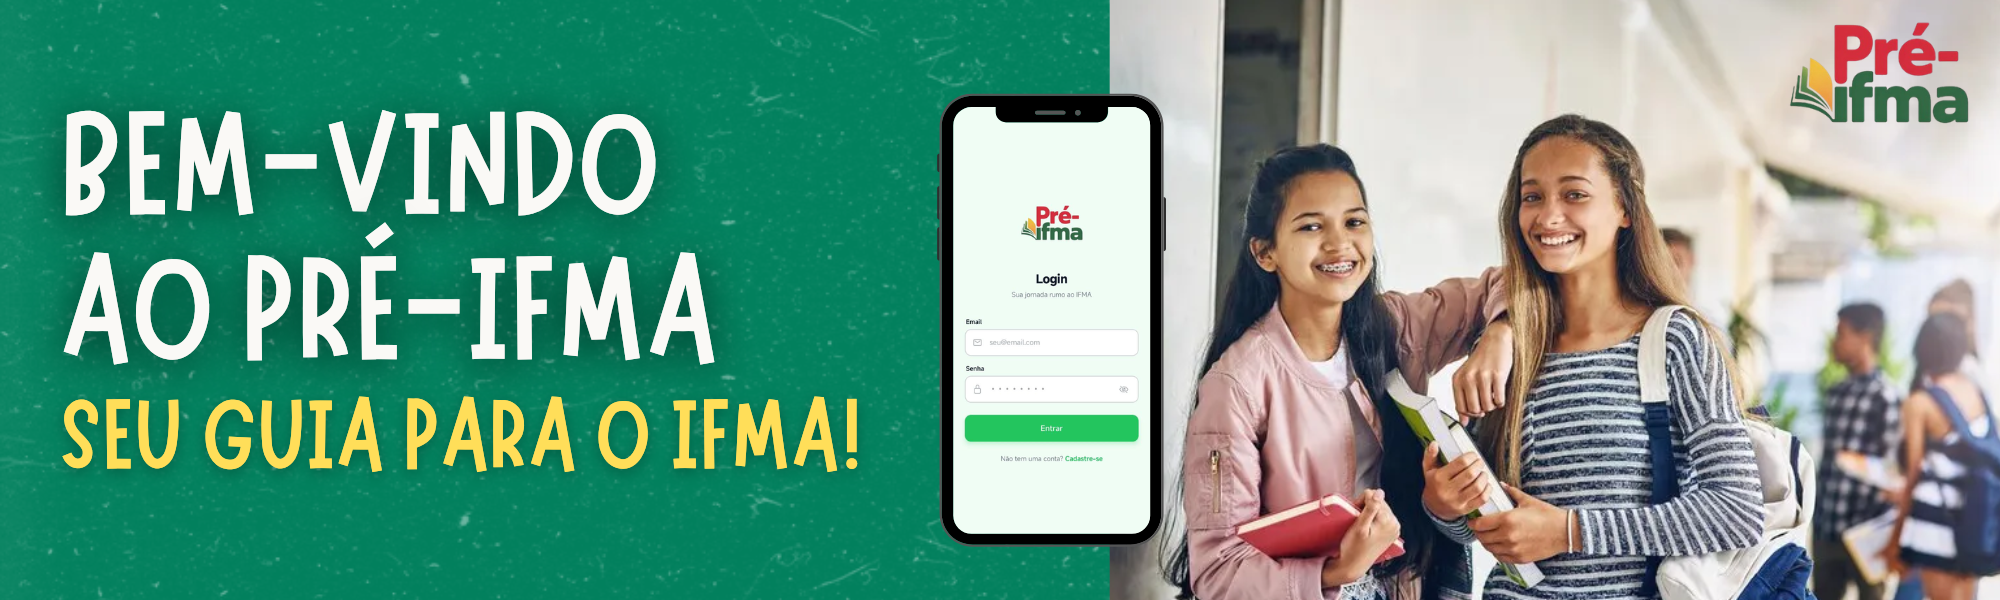
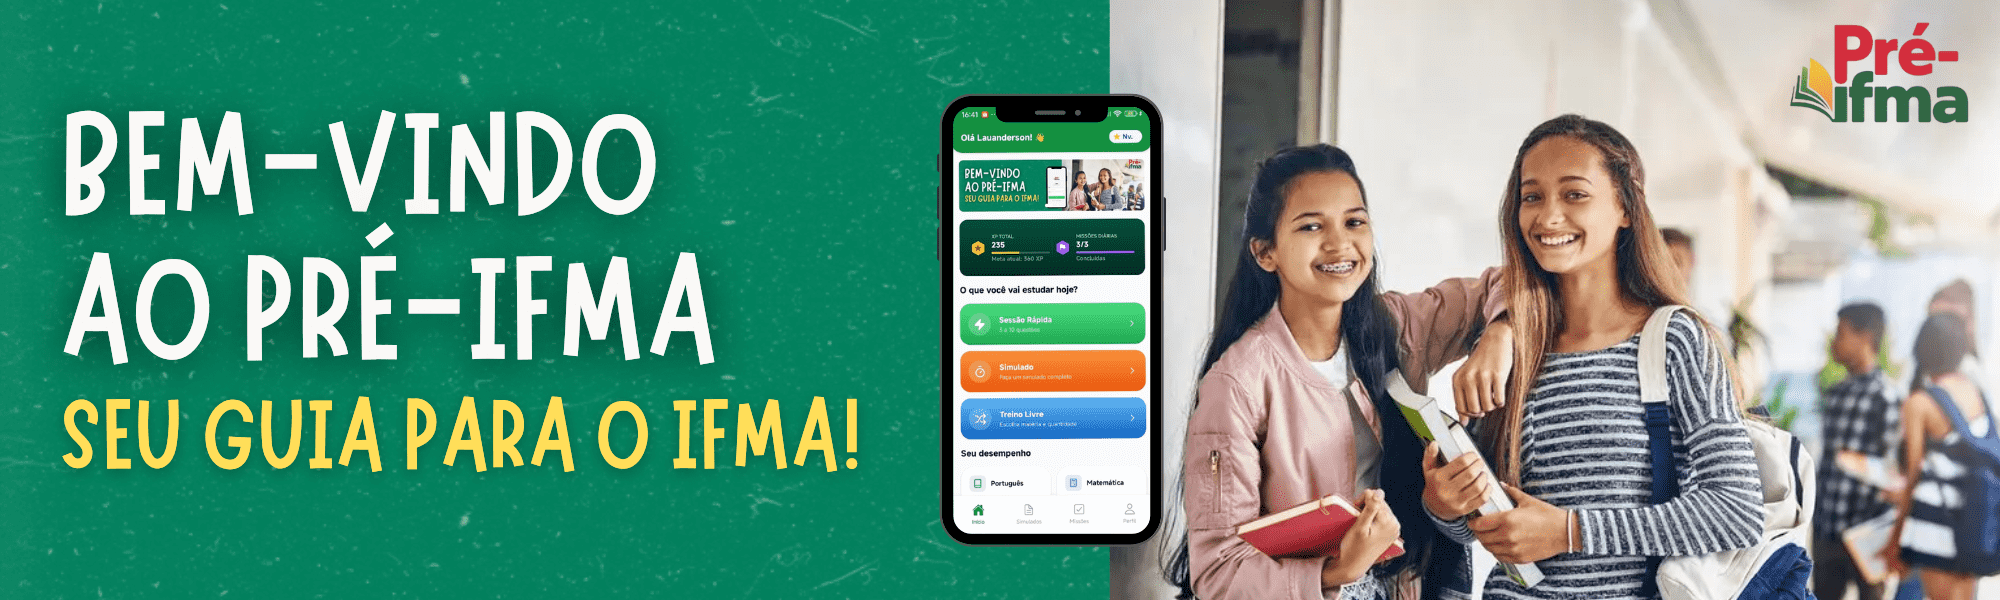
feat: configuração para build e atualização na docuemntação

Changed region(s): [[0.465, 0.18, 0.589, 0.81], [0.62, 0.87, 0.682, 0.93], [0.465, 0.84, 0.496, 0.87]]

diff --git a/README.md b/README.md
@@ -2,7 +2,8 @@
 
 Este é um projeto [Expo](https://expo.dev) e [React Native](https://reactnative.dev/) para o aplicativo **Pré-IFMA**. 
 
-O aplicativo tem o objetivo de ajudar os alunos em sua preparação, simulados e testes.
+O Pré-IFMA é um aplicativo móvel projetado para otimizar a preparação de estudantes para o seletivo do IFMA. Alimentado por uma API que extrai questões oficiais via inteligência artificial, o sistema oferece simulados, resoluções comentadas por IA e mecânicas de engajamento baseadas em missões diárias, níveis e experiência (XP).  
+
 
 ## 🚀 Como Executar o App
 
@@ -58,15 +59,37 @@ Após executar este comando, o Expo irá iniciar um servidor de desenvolvimento 
 
 ---
 
+## 🌟 Funcionalidades
+
+O aplicativo oferece uma gama completa de recursos para a preparação dos estudantes:
+
+- **🔐 Autenticação e Segurança**
+  - Login e Cadastro de Usuários.
+  - Fluxo completo de Recuperação de Senha (Forgot Password).
+- **📝 Simulados Completos**
+  - Listagem e histórico de simulados.
+  - Realização de provas cronometradas.
+  - Resultados detalhados com estatísticas de desempenho.
+  - Acesso ao gabarito após a conclusão.
+- **📚 Modo de Estudo Personalizado**  
+  - Resolução de questões aleatórias.  
+  - Filtros avançados para escolher questões específicas (por disciplina, modalidade, etc.). 
+  - Feedback imediato e resultados da sessão de estudos. 
+- **🤖 Explicação com IA**
+  - Explicações detalhadas geradas por Inteligência Artificial para as questões, ajudando o aluno a entender profundamente os assuntos. 
+- **🎯 Gamificação e Missões**
+  - Missões diárias: tarefas que incentivam o estudo regular e premiam com pontos de experiência.
+  - Níveis e XP: progressão baseada no desempenho do aluno em simulados e questões.
+- **👤 Perfil e Progresso**
+  - Acompanhamento do perfil do estudante e seu progresso geral. 
+
 ## 🛠 Tecnologias e Estrutura
 
 - **React Native** & **Expo**: Base do projeto.
 - **Expo Router**: Utilizado para gerenciar a navegação e roteamento do aplicativo (com base na estrutura de pastas no diretório `app` / `src/app`).
 - **TypeScript**: Utilizado para tipagem do código, dando mais segurança ao desenvolvimento.
 
-Para fazer alterações no projeto, você pode explorar e editar os arquivos contidos principalmente na pasta `src/`. As mudanças serão refletidas quase instantaneamente no aplicativo graças ao recurso de *Fast Refresh*.
-
-## 📚 Links Úteis
+## 📚 Links Úteis 
 
 - [Documentação Oficial do Expo](https://docs.expo.dev/)
 - [Guia de Navegação (Expo Router)](https://docs.expo.dev/router/introduction/)
